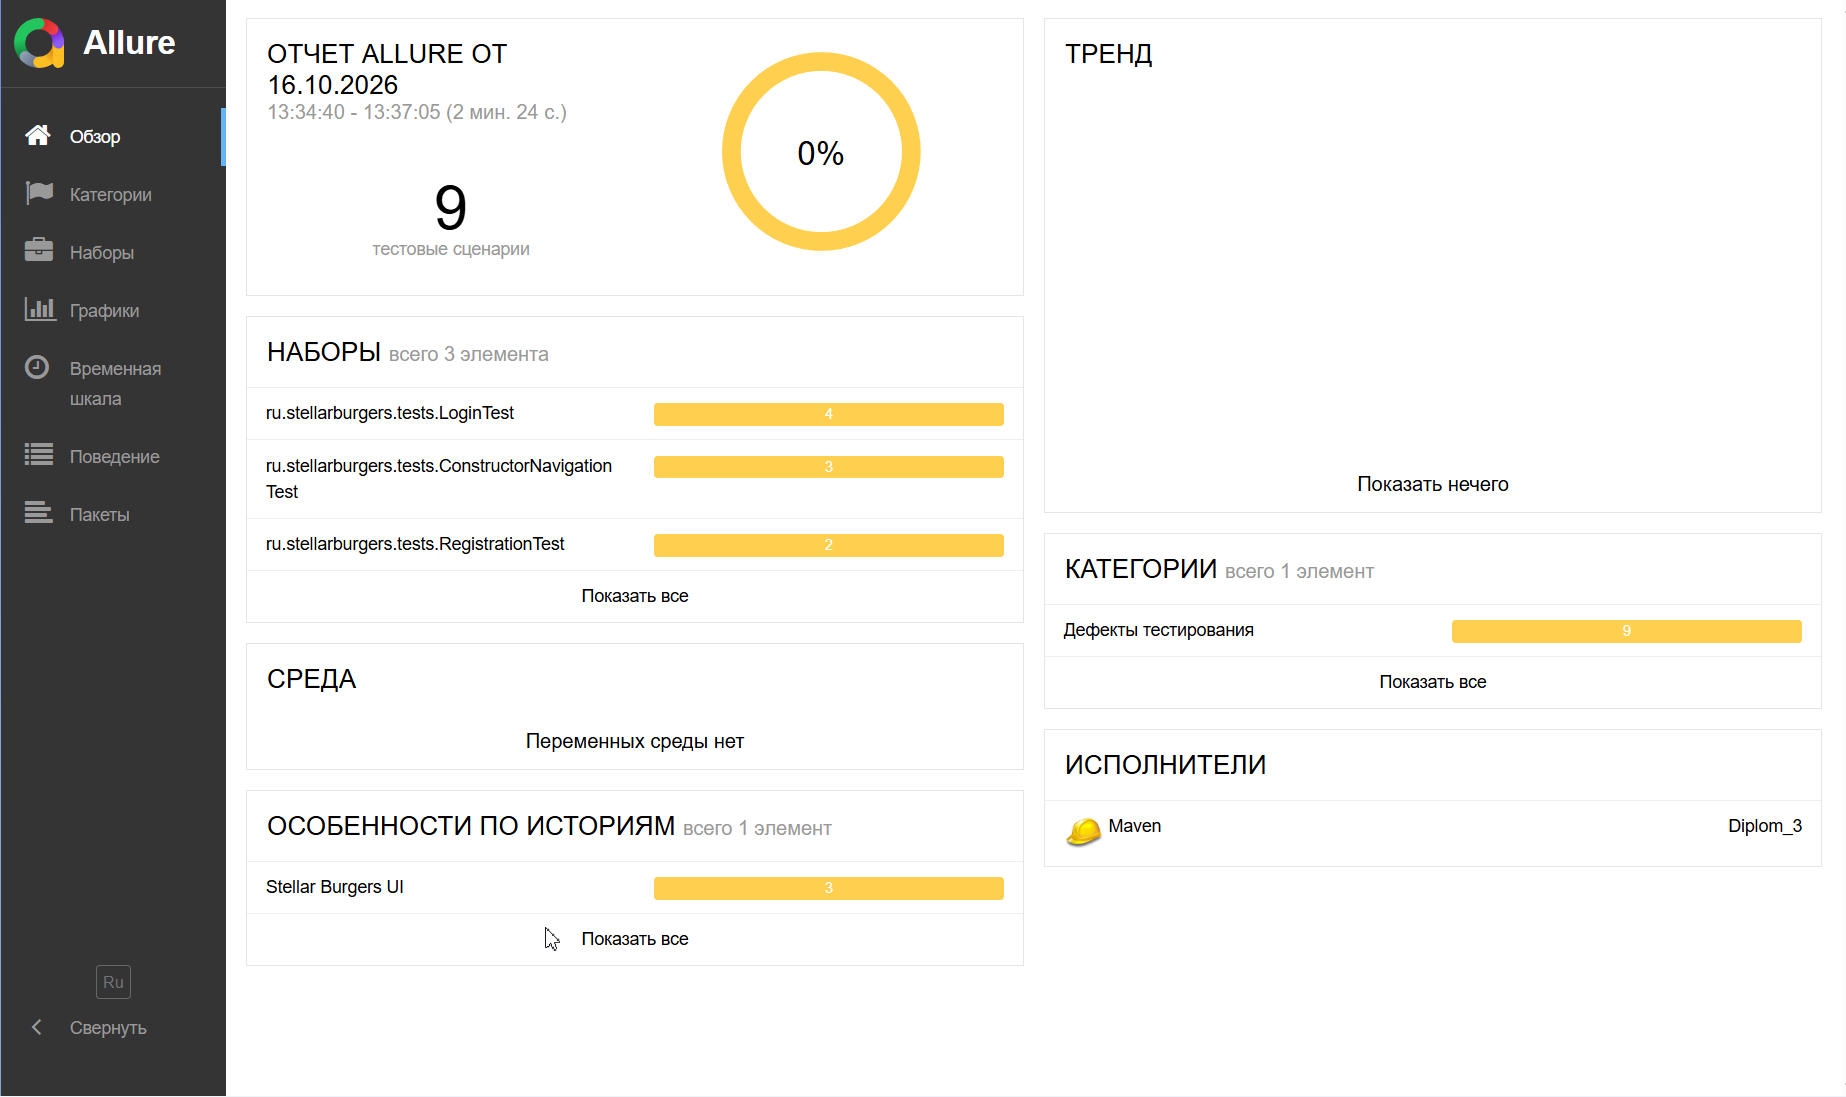
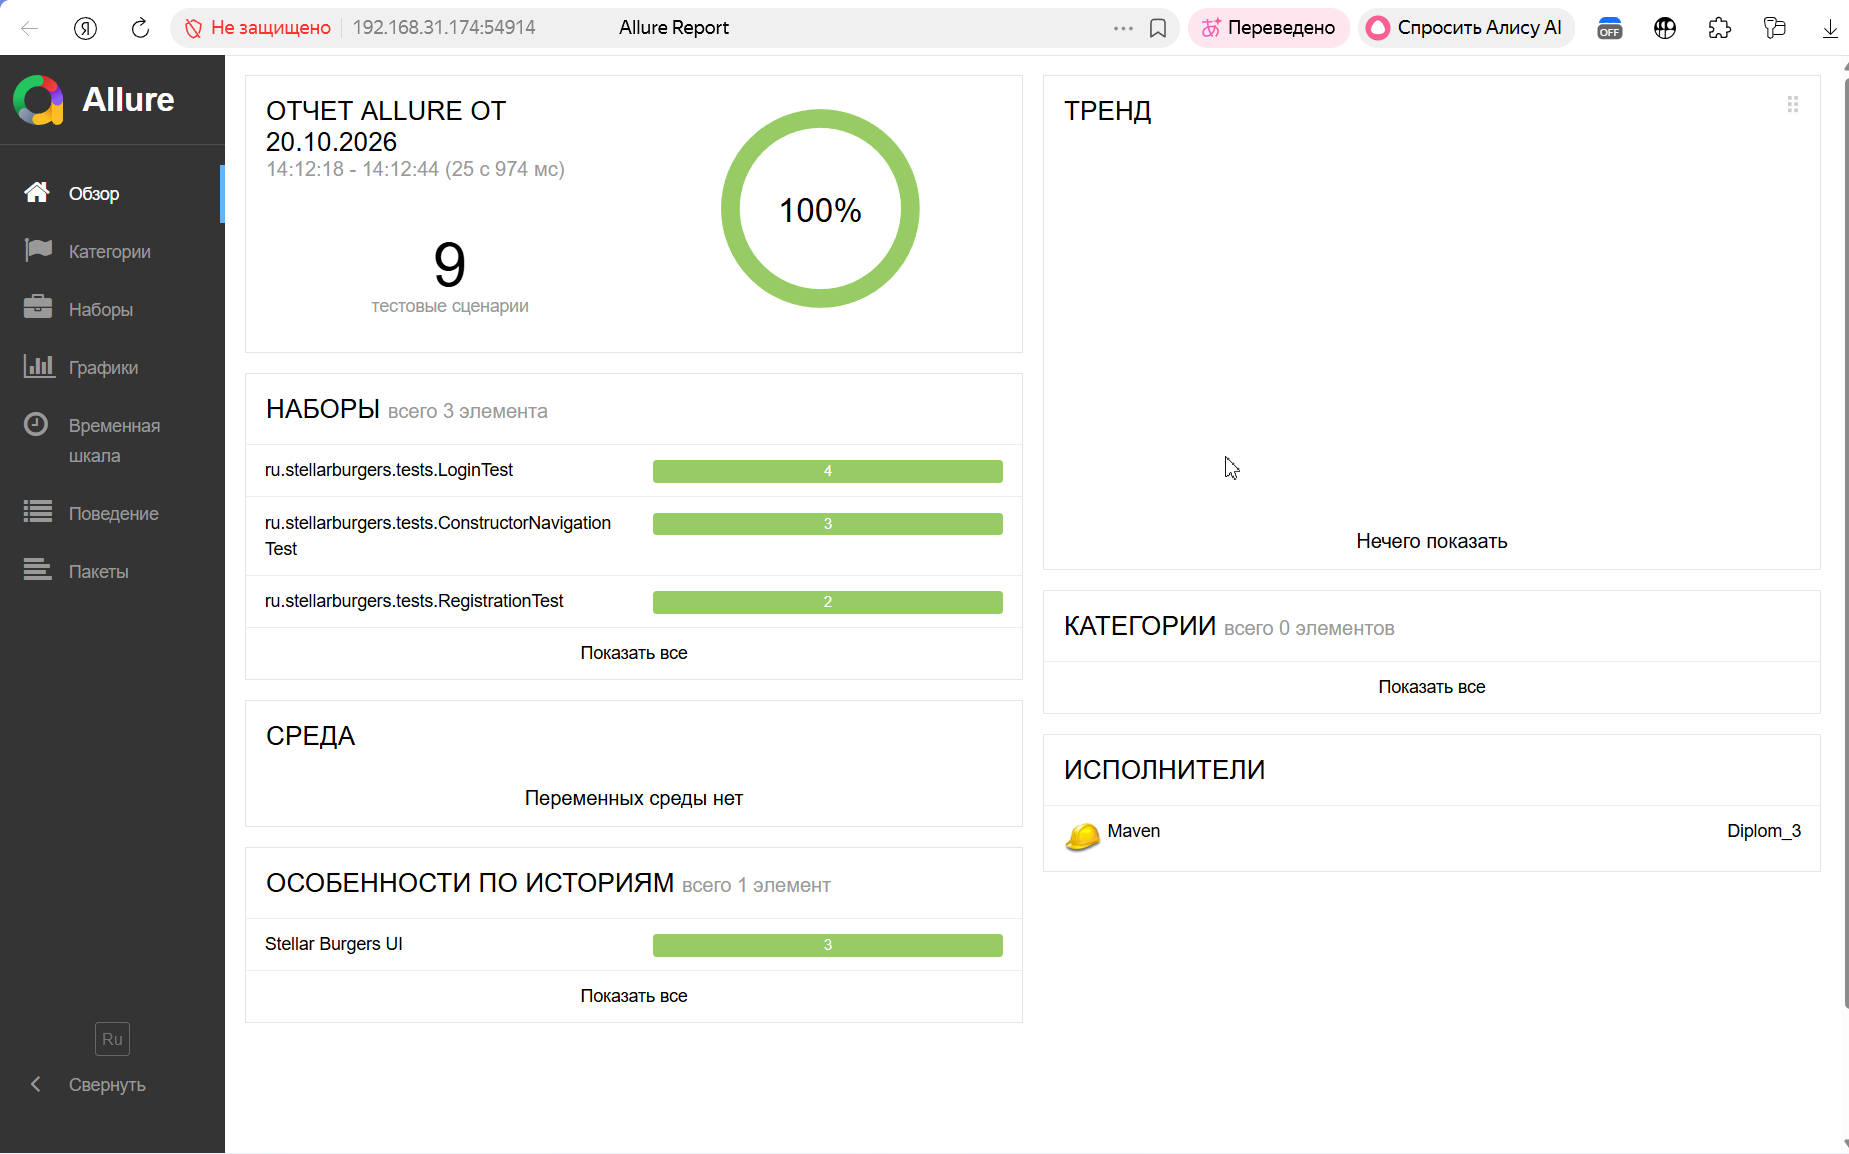
docs: обновлен README, скриншоты 100% прохождения и URL сервера на qa-

diff --git a/src/test/java/ru/stellarburgers/constants/Config.java b/src/test/java/ru/stellarburgers/constants/Config.java
@@ -2,7 +2,7 @@ package ru.stellarburgers.constants;
 
 public class Config {
 
-    public static final String BASE_URL = "https://stellarburgers.education-services.ru";
+    public static final String BASE_URL = "https://qa-stellarburgers.education-services.ru";
     public static final String REGISTER_URL = BASE_URL + "/register";
     public static final String FORGOT_PASSWORD_URL = BASE_URL + "/forgot-password";
 
